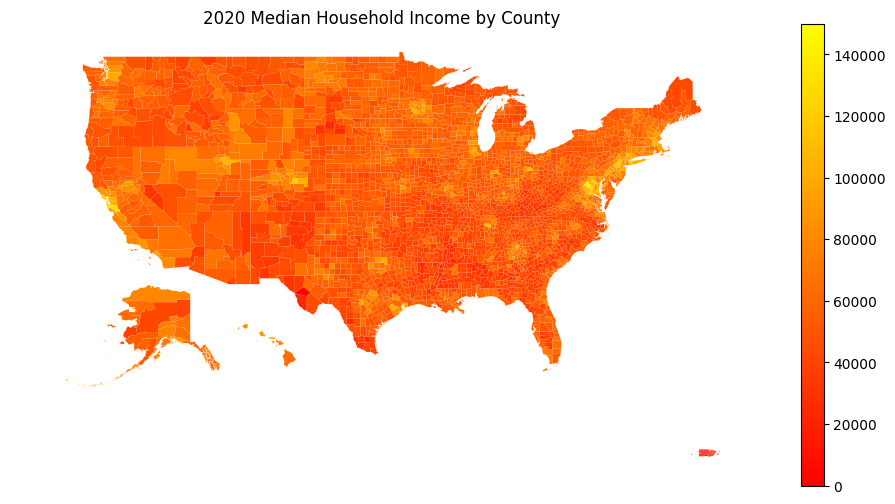
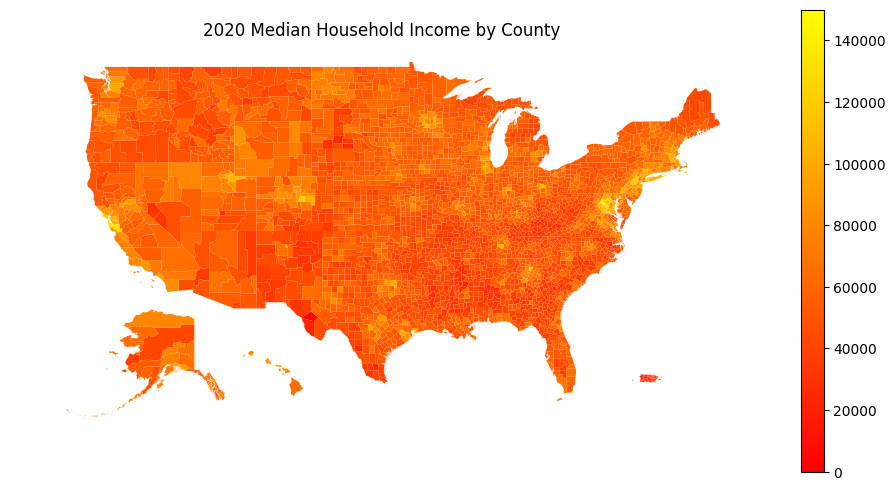
WIP: relocate PR

diff --git a/docs/intro.rst b/docs/intro.rst
@@ -531,10 +531,12 @@ The resulting plot looks like
 .. image:: _static/images/US-median.png
 
 We used ``cem.plot_us`` because it does some nice things
-for us, like relocate Alaska and Hawaii from their actual
-longitude and latitude to a location in the lower left
-corner of the map. Otherwise, it largely takes ``**kwargs``
-that Matplotlib normally takes.
+for us, like relocate Alaska, Hawaii, and Puerto Rico
+from their actual longitude and latitude to locations
+that allow us to plot the map more compactly.
+In addition to doing this relocation, ``cem.plot_is``
+takes the same ``*args`` and ``**kwargs`` that
+Matplotlib normally takes.
 
 Additional Examples in Notebooks
 --------------------------------
